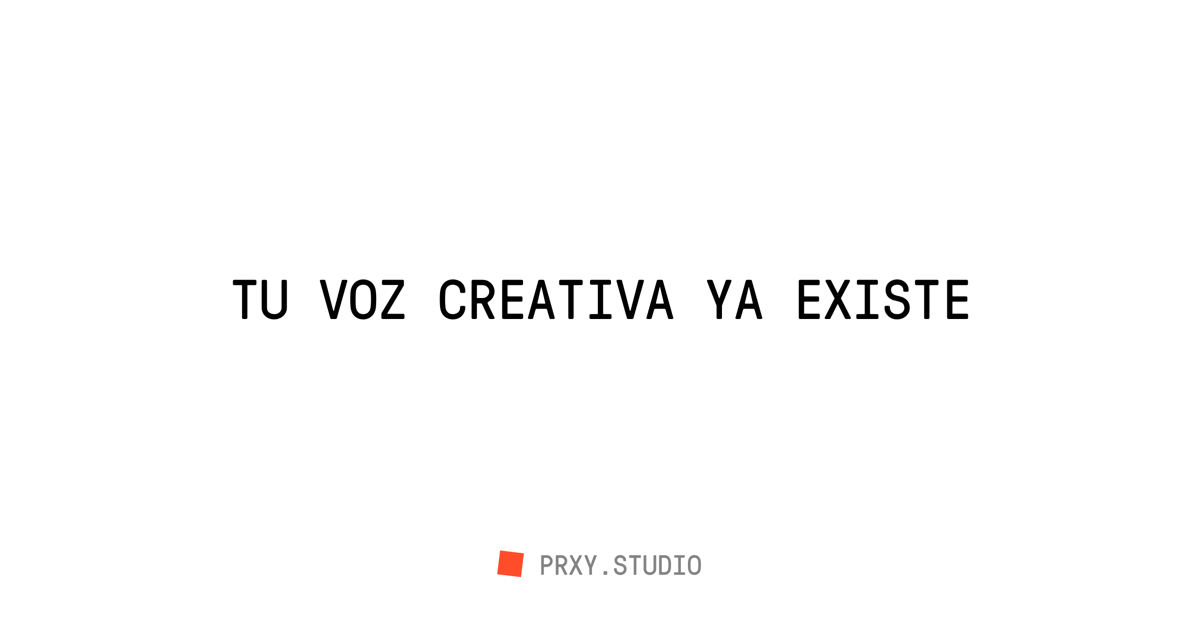
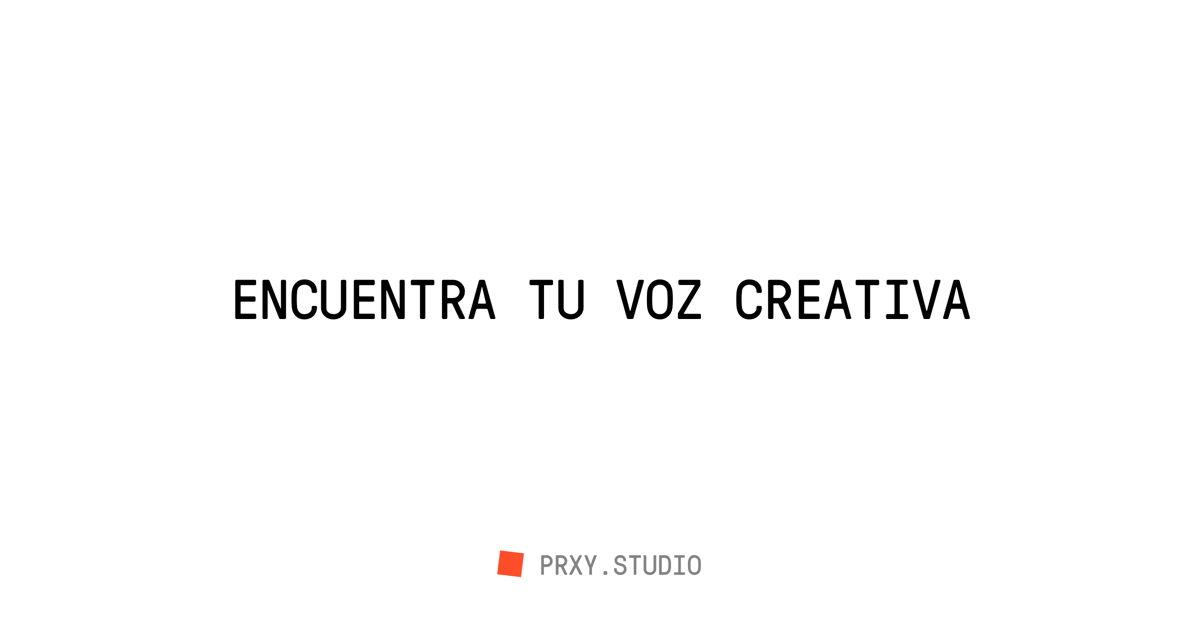
Cambiar el texto de la tarjeta Open Graph a 'Encuentra tu voz creativa'

Changed region(s): [[0.185, 0.4222, 0.8325, 0.5127]]

diff --git a/index.html b/index.html
@@ -113,7 +113,7 @@
 <meta property="og:image" content="https://prxy.studio/og.png">
 <meta property="og:image:width" content="1200">
 <meta property="og:image:height" content="630">
-<meta property="og:image:alt" content="Tu voz creativa ya existe — prxy.studio">
+<meta property="og:image:alt" content="Encuentra tu voz creativa — prxy.studio">
 <meta name="twitter:card" content="summary_large_image">
 <meta name="twitter:image" content="https://prxy.studio/og.png">
 <style>
